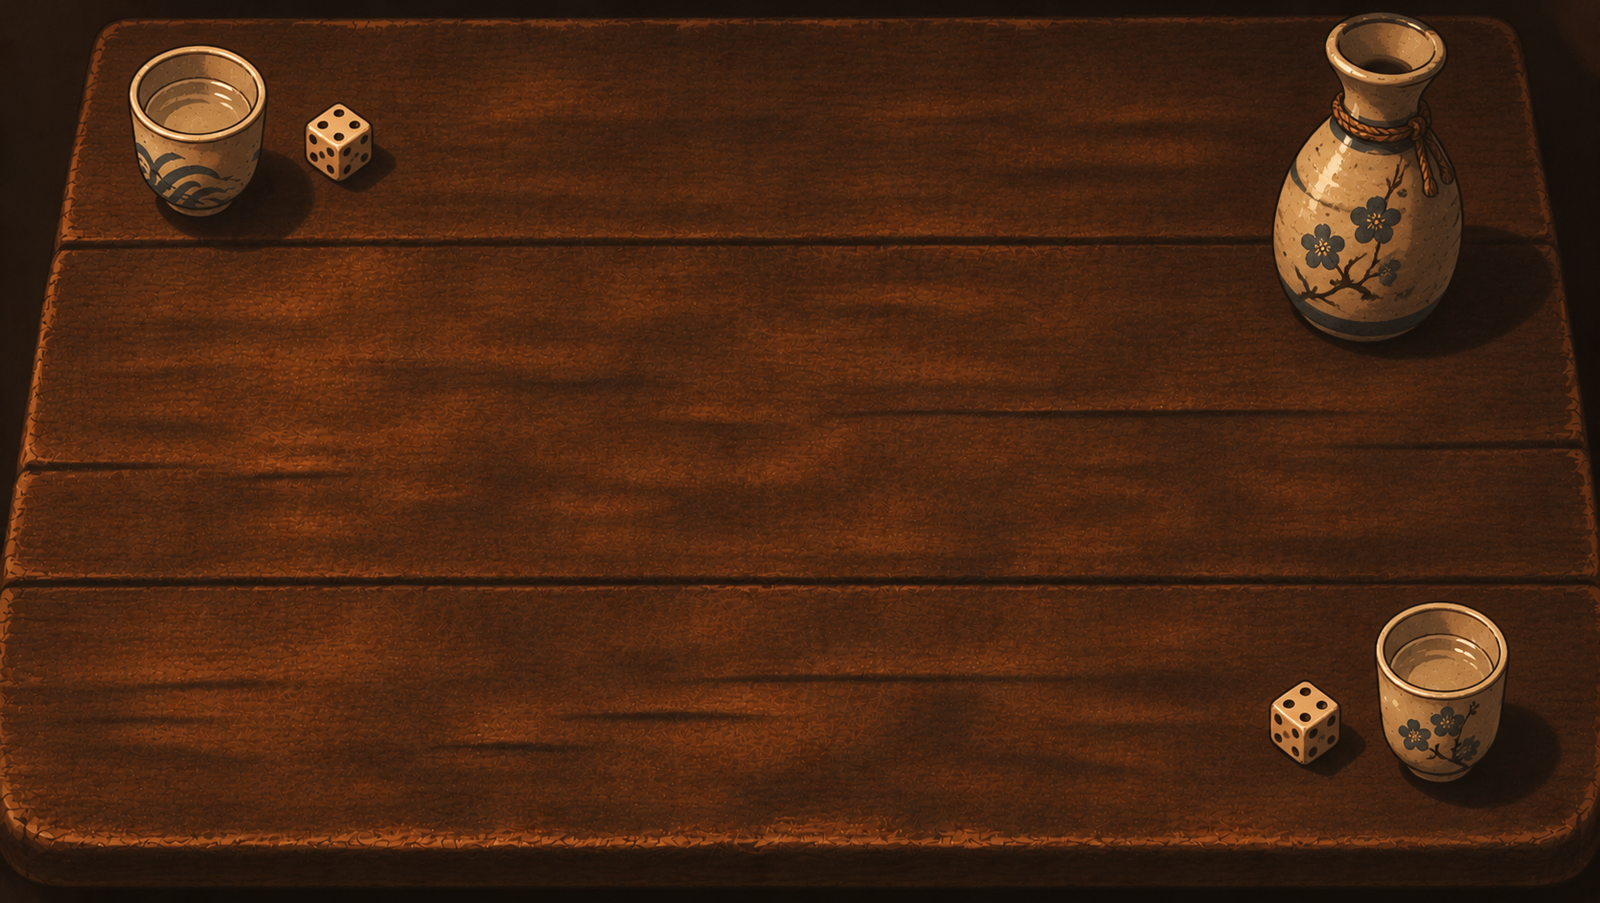
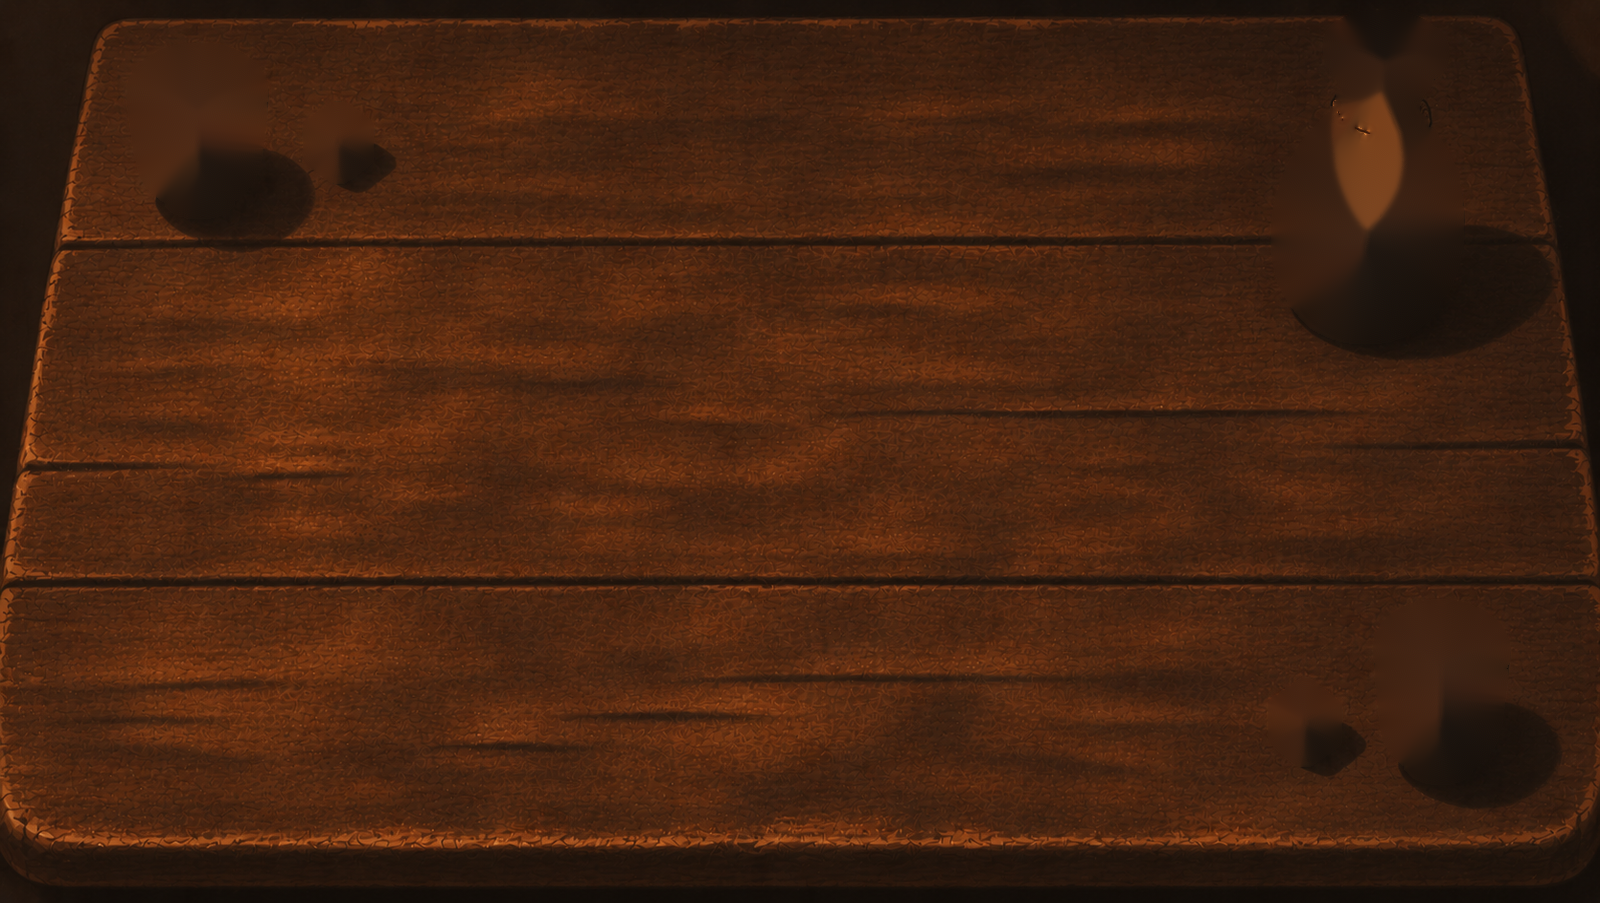
ADD: clickable Izakaya props jiggle on click [ui/BoardView.java, images/boards/izakaya]

Changed region(s): [[0.7812, 0.0, 0.9375, 0.4031], [0.0625, 0.031, 0.25, 0.2481], [0.7812, 0.6512, 0.9688, 0.8682]]

diff --git a/src/main/java/fr/onishintan/ui/BoardView.java b/src/main/java/fr/onishintan/ui/BoardView.java
@@ -45,6 +45,7 @@ import javafx.scene.layout.Pane;
 import javafx.scene.layout.StackPane;
 import javafx.scene.paint.Color;
 import javafx.scene.shape.Rectangle;
+import javafx.scene.transform.Rotate;
 import javafx.scene.transform.Scale;
 import javafx.scene.layout.Region;
 import javafx.scene.input.MouseEvent;
@@ -61,6 +62,9 @@ public class BoardView extends Pane {
     private String enemyPortrait, yourPortrait;
     private final Pane table = new Pane();
     private final ImageView bg;
+    private final boolean izakaya;
+    /** Izakaya props cut out of the table: file, x, y. */
+    private static final String[] PROPS = { "cup-1 130 46", "dice-1 306 105", "pot 1274 13", "dice-2 1271 681", "cup-2 1376 602" };
     private Combatant selected;
     private BiConsumer<Combatant, Combatant> onAttack = (a, t) -> {};
     private final Map<Combatant, Node> nodes = new HashMap<>();
@@ -91,6 +95,7 @@ public class BoardView extends Pane {
         this.enemyPortrait = enemyPortrait;
         this.yourPortrait = yourPortrait;
         bg = image("/images/boards/" + board + ".png");
+        izakaya = board.equals("izakaya");
         bg.setFitWidth(W);
         bg.setFitHeight(H);
         bg.setOnMouseClicked(e -> { selected = null; render(); });
@@ -113,6 +118,7 @@ public class BoardView extends Pane {
     /** Redraws everything that changes during a match: heroes, minions, Ki and decks. */
     public void render() {
         live.getChildren().clear();
+        if (izakaya) props();
         nodes.clear();
         status.clear();
         hero(enemy.getHero(), enemyPortrait, 107, false);
@@ -476,5 +482,20 @@ public class BoardView extends Pane {
         t.playFrom(Duration.seconds(Math.random() * 1.4));
         n.getProperties().put("float", t);
         n.sceneProperty().addListener((o, was, now) -> { if (now == null) t.stop(); });
+    }
+
+    /** Izakaya: the dice, sake flask and cups lie on the table; click one to make it jiggle. */
+    private void props() {
+        for (String p : PROPS) {
+            String[] a = p.split(" ");
+            ImageView v = image("/images/boards/izakaya/" + a[0] + ".png");
+            Rotate r = new Rotate(0, v.getImage().getWidth() / 2, v.getImage().getHeight());   // tilts on its base
+            v.getTransforms().add(r);
+            v.setOnMouseClicked(e -> new Timeline(new KeyFrame(Duration.millis(80), new KeyValue(r.angleProperty(), -5)),
+                    new KeyFrame(Duration.millis(170), new KeyValue(r.angleProperty(), 4)),
+                    new KeyFrame(Duration.millis(250), new KeyValue(r.angleProperty(), -2)),
+                    new KeyFrame(Duration.millis(320), new KeyValue(r.angleProperty(), 0))).play());
+            place(v, Double.parseDouble(a[1]), Double.parseDouble(a[2]));
+        }
     }
 }
